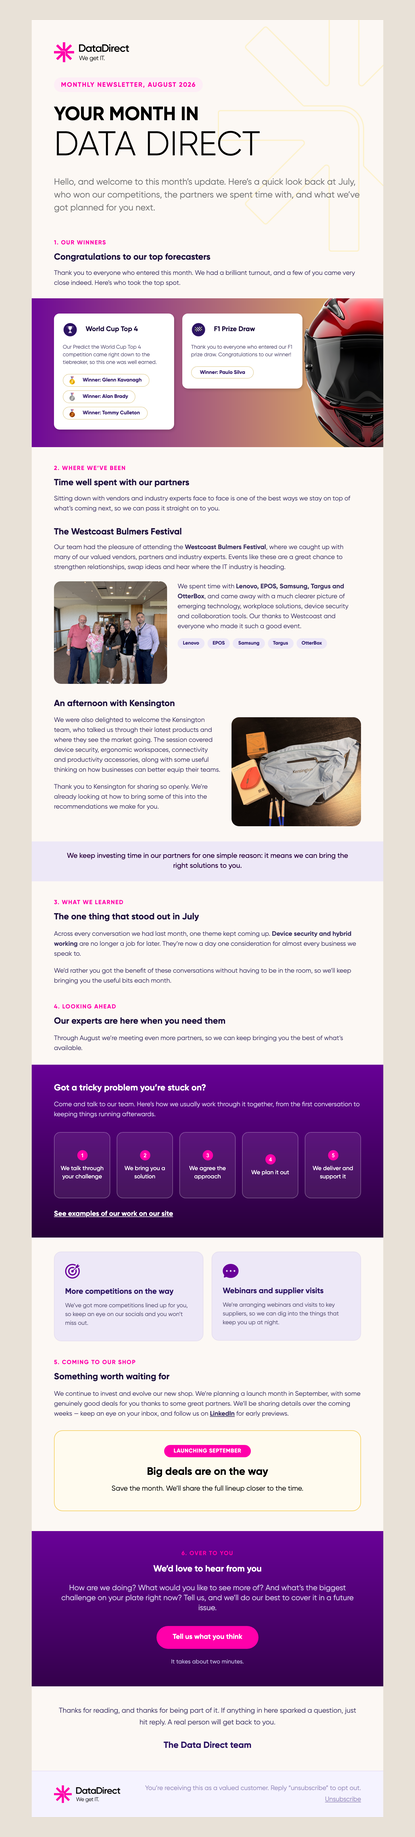
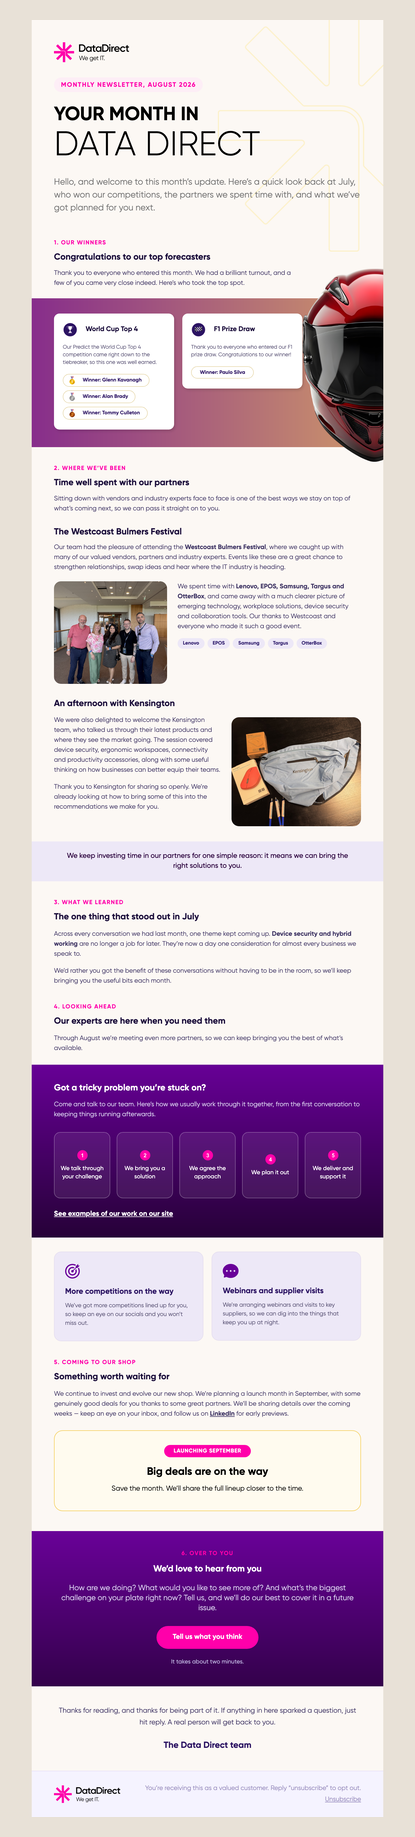
newsletter: helmet overflows the winners band above & below (Figma)
The F1 helmet is now a foreground image absolutely positioned over the
winners region, so it spills above the purple band (over the intro) and
below it (into the 'Where we've been' area), right-half cropped — matching
Figma. Band background is gradient-only. Outlook (no position support)
falls back to the plain gradient band.

Changed region(s): [[0.7229, 0.1241, 0.9253, 0.2482], [0.0578, 0.1551, 0.2313, 0.2482]]

diff --git a/monthly-newsletter/index.html b/monthly-newsletter/index.html
@@ -64,20 +64,23 @@
           </td>
         </tr>
 
-        <!-- ============ 1. OUR WINNERS ============ -->
+        <!-- ============ 1. OUR WINNERS — helmet overflows the band above & below (foreground; Outlook shows the plain gradient band) ============ -->
         <tr>
-          <td style="padding:8px 38px 0 38px;" align="left">
-            <div style="font-family:'Gilroy','Helvetica Neue',Arial,sans-serif; font-size:10px; line-height:12px; font-weight:700; letter-spacing:1px; text-transform:uppercase; color:#ff00aa;">1. Our winners</div>
-            <div style="margin-top:8px; font-family:'Gilroy','Helvetica Neue',Arial,sans-serif; font-size:15px; line-height:21px; font-weight:700; color:#1b0e3b;">Congratulations to our top forecasters</div>
-            <p style="margin:8px 0 0 0; font-family:'Gilroy','Helvetica Neue',Arial,sans-serif; font-size:11px; line-height:17px; font-weight:400; color:#3d3363;">Thank you to everyone who entered this month. We had a brilliant turnout, and a few of you came very close indeed. Here&rsquo;s who took the top spot.</p>
-          </td>
-        </tr>
-        <!-- winners gradient band (helmet baked into bg, right-half cut) with two narrow cards on the left -->
-        <tr>
-          <td style="padding:18px 0 0 0;">
+          <td style="padding:0;">
+            <!--[if !mso]><!-->
+            <div style="position:relative;">
+              <img src="images/helmet-cut.png" width="138" alt="" style="position:absolute; top:58px; right:0; width:138px; height:auto; z-index:2; display:block; pointer-events:none;" />
+            <!--<![endif]-->
+            <table role="presentation" width="100%" cellpadding="0" cellspacing="0" border="0"><tr>
+              <td style="padding:8px 38px 0 38px;" align="left">
+                <div style="font-family:'Gilroy','Helvetica Neue',Arial,sans-serif; font-size:10px; line-height:12px; font-weight:700; letter-spacing:1px; text-transform:uppercase; color:#ff00aa;">1. Our winners</div>
+                <div style="margin-top:8px; font-family:'Gilroy','Helvetica Neue',Arial,sans-serif; font-size:15px; line-height:21px; font-weight:700; color:#1b0e3b;">Congratulations to our top forecasters</div>
+                <p style="margin:8px 0 0 0; max-width:410px; font-family:'Gilroy','Helvetica Neue',Arial,sans-serif; font-size:11px; line-height:17px; font-weight:400; color:#3d3363;">Thank you to everyone who entered this month. We had a brilliant turnout, and a few of you came very close indeed. Here&rsquo;s who took the top spot.</p>
+              </td>
+            </tr></table>
             <table role="presentation" width="600" cellpadding="0" cellspacing="0" border="0"
                    background="images/winners-bg.png"
-                   style="width:600px; background-color:#6e0897; background-image:url('images/winners-bg.png'); background-size:cover; background-position:center top; background-repeat:no-repeat;">
+                   style="width:600px; background-color:#6e0897; background-image:url('images/winners-bg.png'); background-size:cover; background-position:center top; background-repeat:no-repeat; margin-top:18px;">
               <tr>
                 <td style="padding:26px 38px 30px 38px;">
                   <table role="presentation" width="424" cellpadding="0" cellspacing="0" border="0" align="left"><tr>
@@ -122,6 +125,9 @@
                 </td>
               </tr>
             </table>
+            <!--[if !mso]><!-->
+            </div>
+            <!--<![endif]-->
           </td>
         </tr>
 
